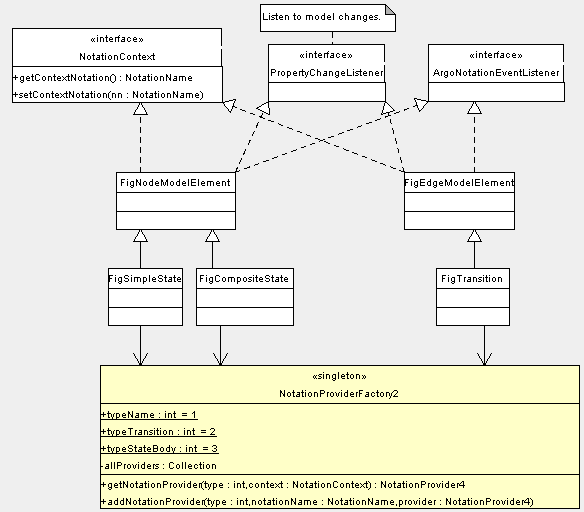
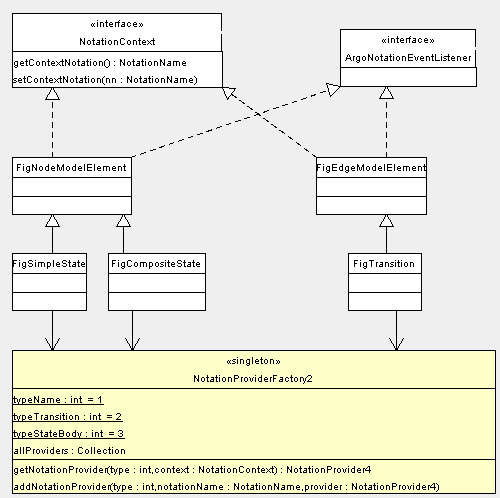
Clarifyed the plans for having the notationproviders listen to the model changes.
git-svn-id: http://argouml.stage.tigris.org/svn/argouml/trunk@9228 a161b567-7d1e-0410-9ef9-912c70fedb3f

diff --git a/www/proposals/notation/index.html b/www/proposals/notation/index.html
@@ -28,7 +28,7 @@
   http://argouml.tigris.org/servlets/ReadMsg?list=dev&msgNo=16309</a>
   and the attachment from Michael.</p>
   <p>The latest .zargo of this proposal is 
-  <a href="notation-mvw-6.zargo">here</a>.</P>
+  <a href="notation-mvw-7.zargo">here</a>.</P>
 
 <H2>The old way / dev list proposal</H2>
 
@@ -52,8 +52,7 @@
   A state will show the latter 2.</p>
 <p>This notation object would keep track of which UML objects it 
   represents, generate and parse and provide a help text.</p>
-<p>Remark:
-  Maybe, in the future, this notation object could listen to model changes, instead of the Fig. 
+<p>This notation object should listen to model changes, instead of the Fig. 
   Putting the latter task into this new Notation class (instead of the Fig) 
   has the advantage that the knowledge 
   to which uml objects to listen is centralised 
